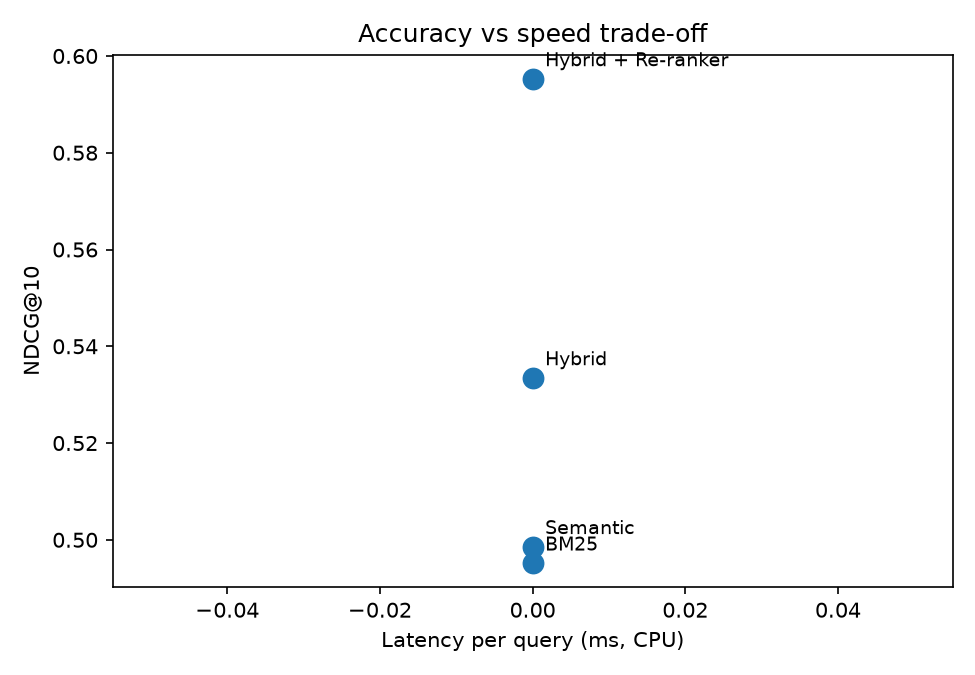
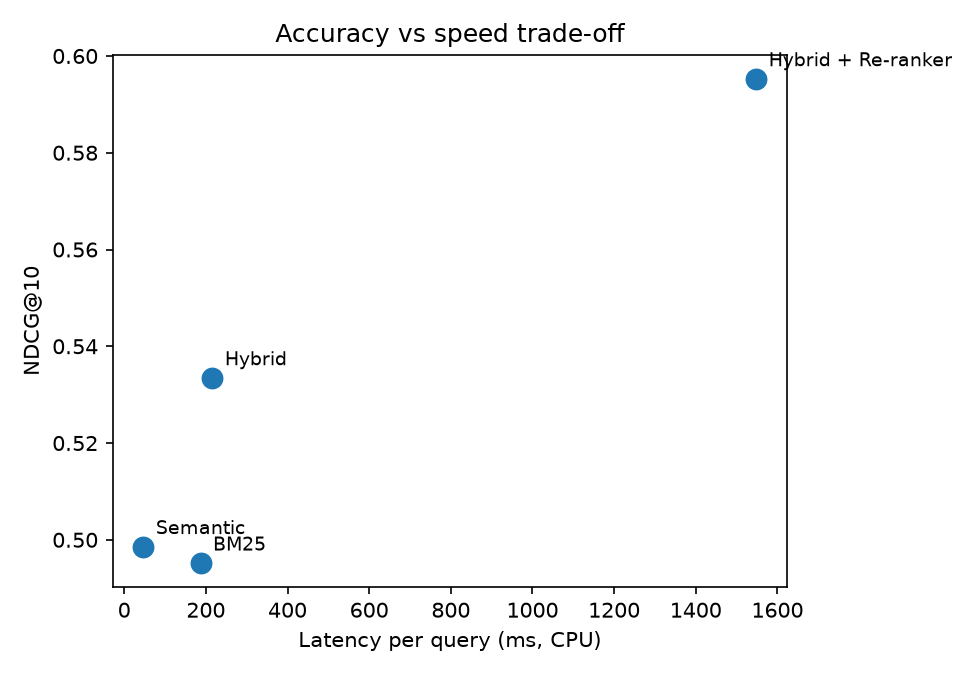
Add latency results and example queries to README

diff --git a/README.md b/README.md
@@ -48,6 +48,36 @@ Query -> BM25 + Semantic search -> Hybrid fusion (RRF, top 20-50) -> Cross-encod
   `cross-encoder/ms-marco-MiniLM-L-6-v2` (re-ranker). Neither was trained on
   shopping data.
 
+## Latency (laptop CPU, average of 3 new queries)
+Latency was measured through the FastAPI endpoint on a laptop CPU, using a new
+query for each request so the cache was not hit. The first request of each method
+was discarded as warm-up.
+
+| Method | Latency | NDCG@10 |
+|---|---|---|
+| BM25 | 187 ms | 0.4952 |
+| Semantic | 47 ms | 0.4986 |
+| Hybrid | 216 ms | 0.5335 |
+| Hybrid + Re-ranker (20 candidates) | ~1.5 s | 0.5953 |
+
+![Accuracy vs latency](docs/accuracy_vs_latency.png)
+
+The re-ranker gives the best accuracy but is about 7x slower than hybrid.
+A GPU, a smaller model, or caching would reduce this. `rank_bm25` also scores
+every document per query, so a proper BM25 engine would be faster.
+
+### Example queries
+
+**"gift for a 5 year old boy"**
+- BM25 returned a "50th Birthday Gift, 50 Year Old T-Shirt" at rank 4, because it matched the words "gift" and "year old".
+- Semantic and hybrid returned mostly pink, girl-oriented products.
+- The re-ranker put dinosaur toys for 5 year old boys at rank 1. One miss remains: a girls' hair chalk set at rank 5.
+
+**"laptop bag for 15 inch"**
+- All methods returned relevant bags. The re-ranker only reordered them, which shows
+  it helps less on easy queries.
+
+
 ## Project structure
 ```
 src/        bm25_search.py, vector_search.py, hybrid.py, rerank.py, evaluate.py
